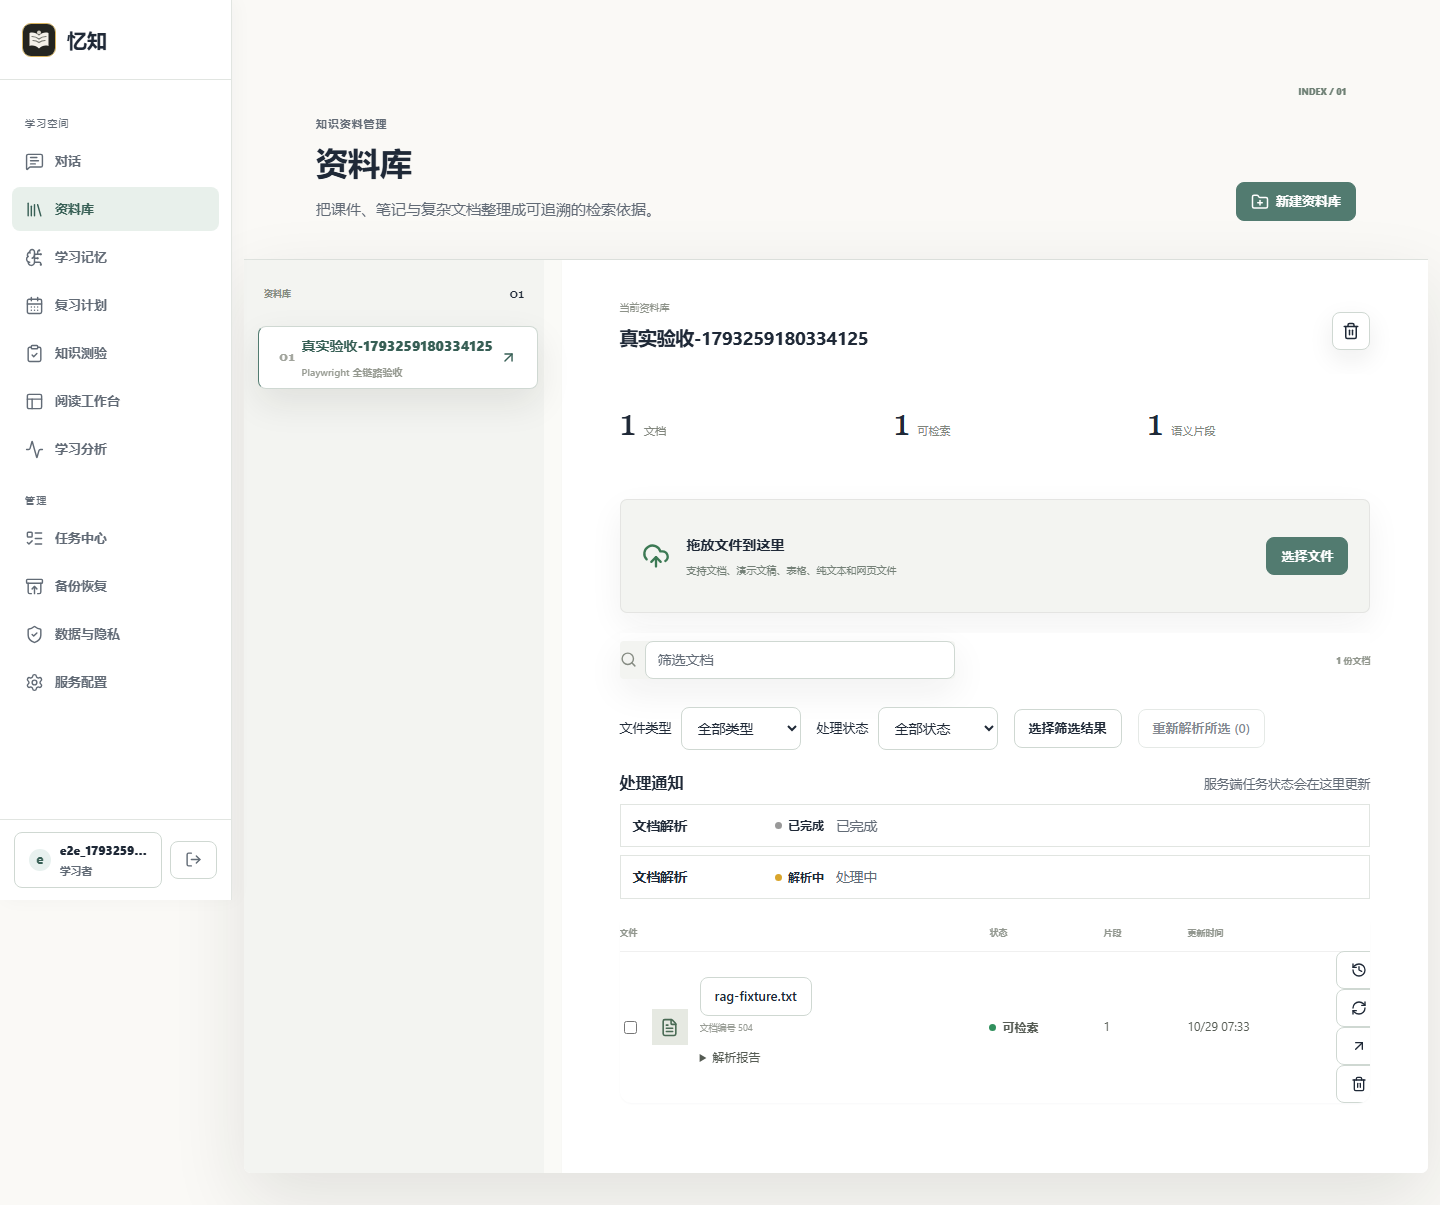
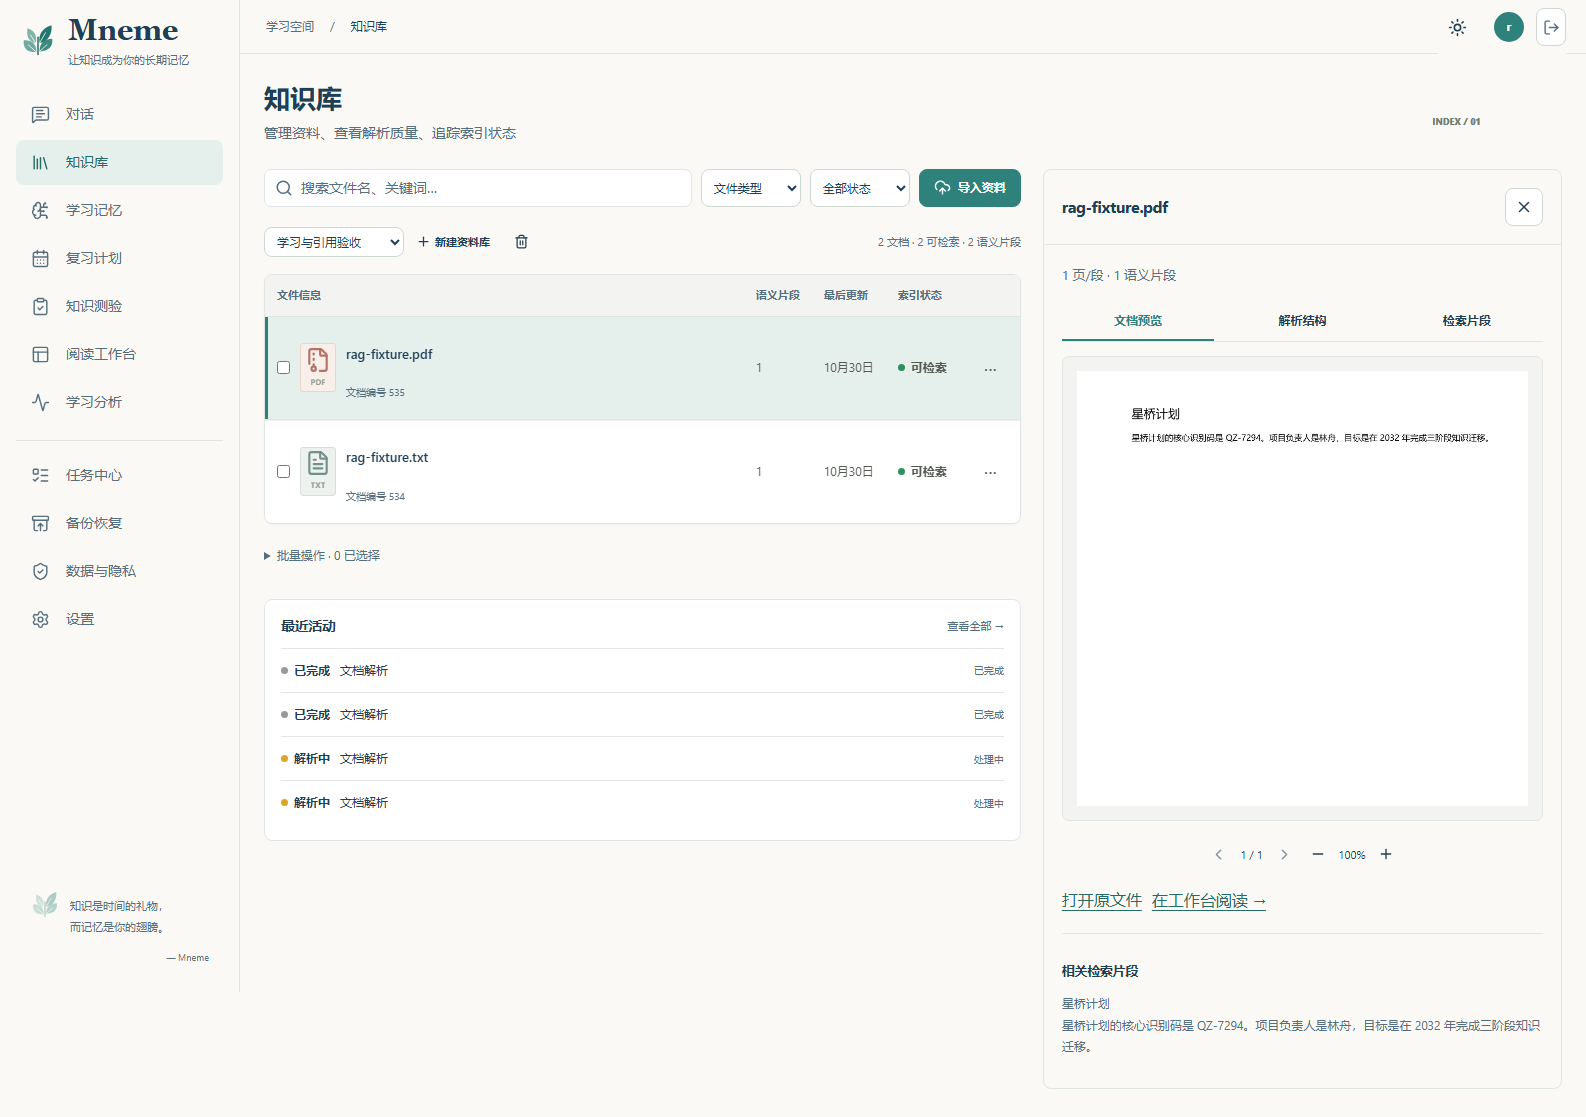
Document reference layouts and real-service acceptance

diff --git a/docs/FRONTEND_REFERENCE_20261030.md b/docs/FRONTEND_REFERENCE_20261030.md
@@ -1,0 +1,68 @@
+# 2026-10-30 参考图还原与回归记录
+
+本轮依据用户提供的两份界面 DOCX 及后续确认修正上一轮布局差距。原文档不修改，图片优先于正文中的蓝色建议。统一使用暖白、低饱和青绿、Mneme 名称与书叶标志。
+
+## 页面对应与实现
+
+| 页面 | 参考 | 已实施结构及保留能力 |
+| --- | --- | --- |
+| 对话、阅读工作台 | 第二份文档第 2 节对话图，1586×992 | 主导航、历史、聊天、引用四区；小页头、底部输入、原文卡片。阅读工作台的原文阅读、检索调试、分支对比由工具菜单打开，保留版本和页码深链。 |
+| 知识库 | 第一份报告知识库图，1586×992 | 紧凑工具栏、文件表格、选中状态、并排原文预览和最近活动。上传、版本、重新解析、OCR、删除能力保留。 |
+| 学习记忆 | 第二份文档记忆图，1672×941 | 四张摘要卡、分类筛选、连续表格、右侧记忆详情和来源；编辑、确认、归档和删除保留。 |
+| 复习、测验 | 第二份文档学习图，1672×940 | 学习卡片、进度、周历和即将复习；复习翻面评分、测验选择与填空、串行草稿保存、历史和反馈保留。 |
+| 任务 | 第二份文档任务图，1585×992 | 摘要卡、任务表、活动时间线、右侧详情；错误阶段、重试和运行中取消保留。 |
+| 设置、数据与隐私 | 第二份文档设置图，1586×992 | 横向标签、横排字段、主题选项、配置状态和数据操作；个人模型密钥、偏好和隐私能力保留。 |
+| 学习分析 | 第二份文档分析图，1672×941 | 摘要、活动柱图、得分折线、知识点和薄弱项、右侧活动日历。图表附可访问明细表，导出与反馈保留。 |
+
+桌面布局以 240px 导航、258px 历史和 380px 引用为基准，正文自动分配剩余空间。1100px 及以下收起导航与详情，600px 及以下收起聊天历史。面板打开时提供焦点管理和背景隔离；816px 窄窗口与手机单独检查。
+
+认证、注册、个人资料、恢复、管理员运维及法律页面的专属布局按用户要求暂不重做。共享导航和主题会应用到工作区，既有功能仍纳入回归。
+
+## 数据与行为边界
+
+- 参考图中的示例数字和文档不写入产品。截图使用真实服务中新建的合成验收账号、文档、记忆和复习记录。
+- 分析接口没有学习时长、阅读次数和成就字段，改用实际学习记录、活跃天数、主题、平均分及最近学习事件；不把观察趋势称为因果或真实留存率。
+- 任务没有可信百分比时显示实际执行阶段。TXT 引用展示文字；PDF 预览展示实际页图，不给文字文件伪造缩略图。
+- 修复 Java 入库任务未传原文件名导致引用显示存储 UUID 的问题；原名通过 `source_name` 传入 Python。兼容旧任务缺少字段的情况，已有索引不会被这次发布自动重写。
+- 新增真实记忆样例时发现本地旧记忆集合缺少 Embedding profile，导致写入被拒绝。本轮暂停写入后保存原文/向量快照及 SHA-256，再按当前模型重建，保留原 ID、归属和正文。代码将此冲突返回为明确的迁移提示；其他部署仍须按 [迁移指南](EMBEDDING_MIGRATION.md) 操作，发布不会自动改写私人索引。
+- 保留批量上传逐项错误、知识库加载错误、会话切换乱序保护、流式状态、记忆错误、向上阅读时不强制滚底，以及测验草稿和提交幂等行为。
+
+## 验证记录
+
+本地证据目录为 `artifacts/frontend-fidelity-20261030/`（不提交包含运行日志的整个目录）。测试数量是本批次记录，不表示未来提交自动通过。
+
+| 范围 | 本轮结果 |
+| --- | --- |
+| 前端 lint、单元测试 | lint 通过；15 文件、48 项通过 |
+| 生产构建 | 15 页面模块；初始 JS 82.20 KiB、CSS 8.77 KiB；聊天/工作台 JS 137.49/138.04 KiB，均在 140 KiB 门限内 |
+| 普通浏览器回归 | 46 通过、16 明确跳过（真实栈/演示需单独启用） |
+| 无障碍 | 桌面、移动端共 34 项通过；参考页面检查明暗主题，等待动效结束后检查对比度 |
+| Java | 全量 90 项通过；包含原文件名传递与记忆索引冲突提示 |
+| Python | 本机 655 通过、1 跳过（缺少本地 Tesseract）；ruff 通过 |
+| 记忆迁移错误回归 | 新增冲突响应和既有迁移/回滚测试共 4 项通过，确认错误时没有修改原索引 |
+| 真实布局矩阵 | 12 路由 × 5 宽度 × 2 语言 × 2 主题，240 组通过 |
+| 真实学习及截图 | 复习评分、测验草稿恢复、记忆写入、PDF 原文预览通过；设置及分析等待实际数据加载后截图，人工核对宽屏与 816px 窄屏 |
+| 真实个人数据 | 每用户模型配置隔离、中英文偏好持久化、个人 ZIP 导出与恢复通过 |
+| 真实扩展工作流 | 八种格式、联合筛选、历史版本、租户隔离、复习/测验导出、删除、损坏 PDF、OCR、取消重试通过；工具菜单中的标签/检索筛选单独复测通过 |
+
+真实服务入口为 `http://localhost:3000`。注册/登录、上传、入库、问答、引用、多轮与刷新，以及有数据的复习、测验和参考页面截图由 `real-stack.spec.js` 与 `report-stack.spec.js` 验证。局部样式对照和功能回归分别记录；无水平溢出和 axe 通过不能单独证明视觉还原。
+
+![对话与引用](images/mneme-rag-chat.png)
+
+![知识库原文预览](images/mneme-knowledge.png)
+
+![学习分析](images/mneme-analytics.png)
+
+![模型设置](images/mneme-settings.png)
+
+## 复现与发布
+
+启动既有自部署栈后，在 `frontend` 运行：
+
+```powershell
+$env:MNEME_REAL_E2E='true'
+$env:MNEME_E2E_BASE_URL='http://localhost:3000'
+npx playwright test e2e/real-stack.spec.js e2e/report-stack.spec.js e2e/roadmap-stack.spec.js --project=桌面端 --workers=1
+```
+
+真实模型模式会使用配置的服务处理合成资料并产生供应商费用。普通 mock 测试不能代替这一回归。GitHub 将实现与文档分批提交；最终合并状态以相应 PR 与提交检查为准。

diff --git a/docs/frontend.md b/docs/frontend.md
@@ -10,7 +10,7 @@
 - `/memory`：学习记忆列表、筛选、详情、编辑、确认、归档和删除。
 - `/review`：到期日历、计划、翻面卡片、SM-2 评分与进度。
 - `/quiz`：生成测验、草稿、问题反馈、提交解释与历史记录。
-- `/workspace`：原文阅读、检索调试和会话分支。
+- `/workspace`：与对话页一致的历史、聊天、引用布局；通过“工具”菜单打开原文阅读、检索调试和会话分支。
 - `/tasks`、`/recovery`：任务状态与恢复操作。
 - `/privacy`、`/operations`、`/analytics`：隐私、运维与学习分析。
 - `/profile`、`/settings`：个人资料、密码/会话、中英文、时区、通知、主题与每用户加密模型配置。
@@ -18,7 +18,7 @@
 
 所有工作区页面共用低饱和主题变量、侧栏与移动导航；外观设置支持明暗模式。页面可用性以实际浏览器验收为准。
 
-统一组件位于 `components/ui.jsx`，包括 PageHeader、StatusPill、SideDrawer、FeedbackBlock、DangerZone 和 Modal。`layers.css` 固定 legacy/design 层级；旧页面布局逐步复用，新主题与公共组件位于 design 层，避免以 `!important` 互相覆盖。主题令牌在 `theme.css`，翻译在 `i18n/`，持久偏好由 PreferencesContext 管理。15 个页面模块均延迟加载。
+统一组件位于 `components/ui.jsx`，包括 PageHeader、StatusPill、SideDrawer、FeedbackBlock、DangerZone 和 Modal。`ReferenceUI.jsx` 提供桌面并排详情、窄屏抽屉、摘要卡和时区日历；`LearningCharts.jsx` 使用真实学习事件绘图并提供可访问的数据表。`layers.css` 固定 legacy/design/reference 层级，参考图布局位于 `reference*.css`，避免以 `!important` 互相覆盖。主题令牌在 `theme.css`，翻译在 `i18n/`，持久偏好由 PreferencesContext 管理。15 个页面模块均延迟加载；原工作台工具单独延迟加载。
 
 ## 数据原则
 
@@ -32,4 +32,6 @@
 
 ## 响应式
 
-全局导航在 760px 以下变为抽屉。聊天会话栏、资料库索引和画像网格分别采用适合本页面的移动布局。
+全局导航和右侧详情在 1100px 及以下变为抽屉；聊天历史在 600px 及以下收起。宽屏对话以 240px 主导航、258px 历史、380px 引用面板为基准，正文占用剩余空间。知识库采用文件表格与并排原文预览，其余参考页面使用摘要、主内容及详情列。窄屏通过按钮打开面板，保留焦点管理和背景隔离。
+
+本轮图片对应、保留功能和验收范围见 [参考图还原记录](FRONTEND_REFERENCE_20261030.md)。认证、个人资料、恢复、管理员和法律页面的专属布局等待独立视觉参考，本轮仅沿用共享外壳。

diff --git a/docs/PROJECT_STATUS.md b/docs/PROJECT_STATUS.md
@@ -1,8 +1,10 @@
 # Mneme 当前状态
 
-核对日期：2026-10-29，面向个人和小团队私有部署 Beta。当前入口为 [README](../README.md)、[路线图落实记录](ROADMAP_COVERAGE.md)、[最终回归记录](ACCEPTANCE_2026-10-29.md)、[发布说明](RELEASE_NOTES_2026-10-29.md)和 [自部署指南](SELF_HOSTING.md)；旧审计与开发笔记保留为历史记录。
+核对日期：2026-10-30，面向个人和小团队私有部署 Beta。当前入口为 [README](../README.md)、[参考图还原记录](FRONTEND_REFERENCE_20261030.md)、[路线图落实记录](ROADMAP_COVERAGE.md)、[最终回归记录](ACCEPTANCE_2026-10-29.md)、[发布说明](RELEASE_NOTES_2026-10-29.md)和 [自部署指南](SELF_HOSTING.md)；旧审计与开发笔记保留为历史记录。
 
-本日最新界面整改的完成项和验证证据见 [全界面验收表](FRONTEND_REVIEW_20261029.md)：15 个延迟加载页面模块、独立复习/测验、中英文偏好、个人加密模型配置与双层恢复。Java 89 项、前端 48 项及生产构建通过；正式 Python 3.11 镜像全量 654 项通过、0 跳过（含 OCR），本机 653 通过/1 个 OCR 环境跳过。新增引用分支/导入集成回归 21 项通过，真实服务布局矩阵 240 组通过。以下初轮测试数字保留历史语境。
+10 月 30 日按视觉参考重排对话、知识库、学习记忆、复习、测验、任务、设置、隐私和分析。阅读工作台统一为历史/聊天/引用，原阅读、检索调试和分支移入工具菜单。真实上传回归发现的引用文件名带存储编号问题也已修复；旧任务未携带原文件名时仍兼容处理。具体证据及未重新设计的页面见上述还原记录。
+
+10 月 29 日上一批整改的完成项和验证证据见 [全界面验收表](FRONTEND_REVIEW_20261029.md)：15 个延迟加载页面模块、独立复习/测验、中英文偏好、个人加密模型配置与双层恢复。Java 89 项、前端 48 项及生产构建通过；正式 Python 3.11 镜像全量 654 项通过、0 跳过（含 OCR），本机 653 通过/1 个 OCR 环境跳过。新增引用分支/导入集成回归 21 项通过，真实服务布局矩阵 240 组通过。该段及以下初轮测试数字保留历史语境；10 月 30 日的新结果以参考图还原记录为准。
 
 ## 已完成闭环
 

diff --git a/docs/testing.md b/docs/testing.md
@@ -1,6 +1,8 @@
 # 测试说明
 
-最新两份界面报告的验收与本地证据见 [FRONTEND_REVIEW_20261029](FRONTEND_REVIEW_20261029.md)。完整栈启动后，在 frontend 目录设置 `MNEME_REAL_E2E=true`、`MNEME_E2E_BASE_URL=http://127.0.0.1:3000`，运行 `npx playwright test e2e/report-stack.spec.js --project=桌面端 --retries=0`：覆盖个人模型隔离、双语偏好、个人归档向导、240 组页面布局以及实际复习和测验草稿。它直接访问运行服务；认证和法律页面也保存截图。普通浏览器回归中这些真实栈测试会明确跳过，不能把跳过当成功。
+2026-10-30 的布局、原文件名传递和实际页面回归见 [参考图还原记录](FRONTEND_REFERENCE_20261030.md)。`real-stack.spec.js` 验证引用显示原上传文件名，并保存宽屏和窄屏对话截图；`report-stack.spec.js` 按参考图尺寸保存有数据的记忆、复习、测验、PDF 预览、任务、设置和分析页面。`accessibility.spec.js` 同时检查参考页面的浅色和暗色主题。执行这些脚本前请按下文区分真实服务与 mock 预览环境。
+
+10 月 29 日上一批界面整改的验收与本地证据见 [FRONTEND_REVIEW_20261029](FRONTEND_REVIEW_20261029.md)。完整栈启动后，在 frontend 目录设置 `MNEME_REAL_E2E=true`、`MNEME_E2E_BASE_URL=http://127.0.0.1:3000`，运行 `npx playwright test e2e/report-stack.spec.js --project=桌面端 --retries=0`：覆盖个人模型隔离、双语偏好、个人归档向导、240 组页面布局以及实际复习和测验草稿。它直接访问运行服务；认证和法律页面也保存截图。普通浏览器回归中这些真实栈测试会明确跳过，不能把跳过当成功。
 
 管理员真实整站恢复由 `scripts/verify_site_recovery.py --confirm-disposable-stack` 验证，必须使用可丢弃栈；会备份、删除测试账号、实际恢复并验证登录/文档/向量/引用。配置和完整命令见 [HOST_RECOVERY](HOST_RECOVERY.md)。GitHub CI 保留该报告、恢复日志和回滚检查点信息。
 

diff --git a/README.md b/README.md
@@ -2,7 +2,7 @@
 
 > 一个支持结构化 RAG、三级记忆与可追溯引用的开源个人学习助手。
 
-![Mneme logo](frontend/src/assets/mneme-logo.svg)
+![Mneme logo](frontend/src/assets/mneme-leaf.svg)
 
 [![CI](https://github.com/CoderDongHuang/Mneme/actions/workflows/ci.yml/badge.svg)](https://github.com/CoderDongHuang/Mneme/actions/workflows/ci.yml)
 ![Java](https://img.shields.io/badge/Java-17-ED8B00)
@@ -48,8 +48,9 @@ python scripts/demo.py clean --confirm-delete-demo-data
 
 ![登录界面](docs/images/mneme-auth.png)
 ![资料与引用](docs/images/mneme-rag-chat.png)
+![知识库与原文预览](docs/images/mneme-knowledge.png)
 
-截图展示已有工作区。最新离线演示的实际截图由 `Offline demo clean install` CI 产物保存。
+工作区截图来自真实本地服务与合成验收资料；2026-10-30 的布局对应和测试范围见 [参考图还原记录](docs/FRONTEND_REFERENCE_20261030.md)。离线演示的实际截图由 `Offline demo clean install` CI 产物保存。
 
 ## 功能概览
 

diff --git a/docs/EMBEDDING_MIGRATION.md b/docs/EMBEDDING_MIGRATION.md
@@ -4,6 +4,8 @@
 更换供应商/模型、离线与云端切换，或者旧集合没有 profile 时，语义读写会明确拒绝；
 列表、导出、删除仍可使用。供应商暂时故障会保留原索引并报错，不再写入离线替代向量。
 
+长期记忆配置冲突会返回 HTTP 409 和迁移提示；Python 错误码为 `MEMORY_INDEX_MIGRATION_REQUIRED`。这不表示账号失效，也不应通过清空集合解决。管理员按下列步骤保留快照并迁移，普通用户仍可查看、导出或删除自己的记忆。
+
 ## 升级顺序
 
 1. 按 [自托管指南](SELF_HOSTING.md) 的备份恢复流程备份关系库、文件、向量库及辅助状态，并验证备份。

diff --git a/docs/FRONTEND_REVIEW_20261029.md b/docs/FRONTEND_REVIEW_20261029.md
@@ -1,5 +1,7 @@
 # 2026-10-29 界面与可靠性整改验收表
 
+> 历史记录：后续视觉核对发现布局与参考图仍有差距。2026-10-30 的结构重排、用户最终确认和新回归结果见 [参考图还原记录](FRONTEND_REFERENCE_20261030.md)；本文件的旧数量不作为新版本验收依据。
+
 来源：用户提供的《Mneme前端界面优化与代码问题审查报告》和《Mneme其他界面设计方案与视觉参考》。原始文件保留不改。本表记录实施与验收证据，实现与本地验收已完成；GitHub 发布状态单独记录，不用历史批次的通过数量替代本批验证。
 
 ## 已确认的产品选择
